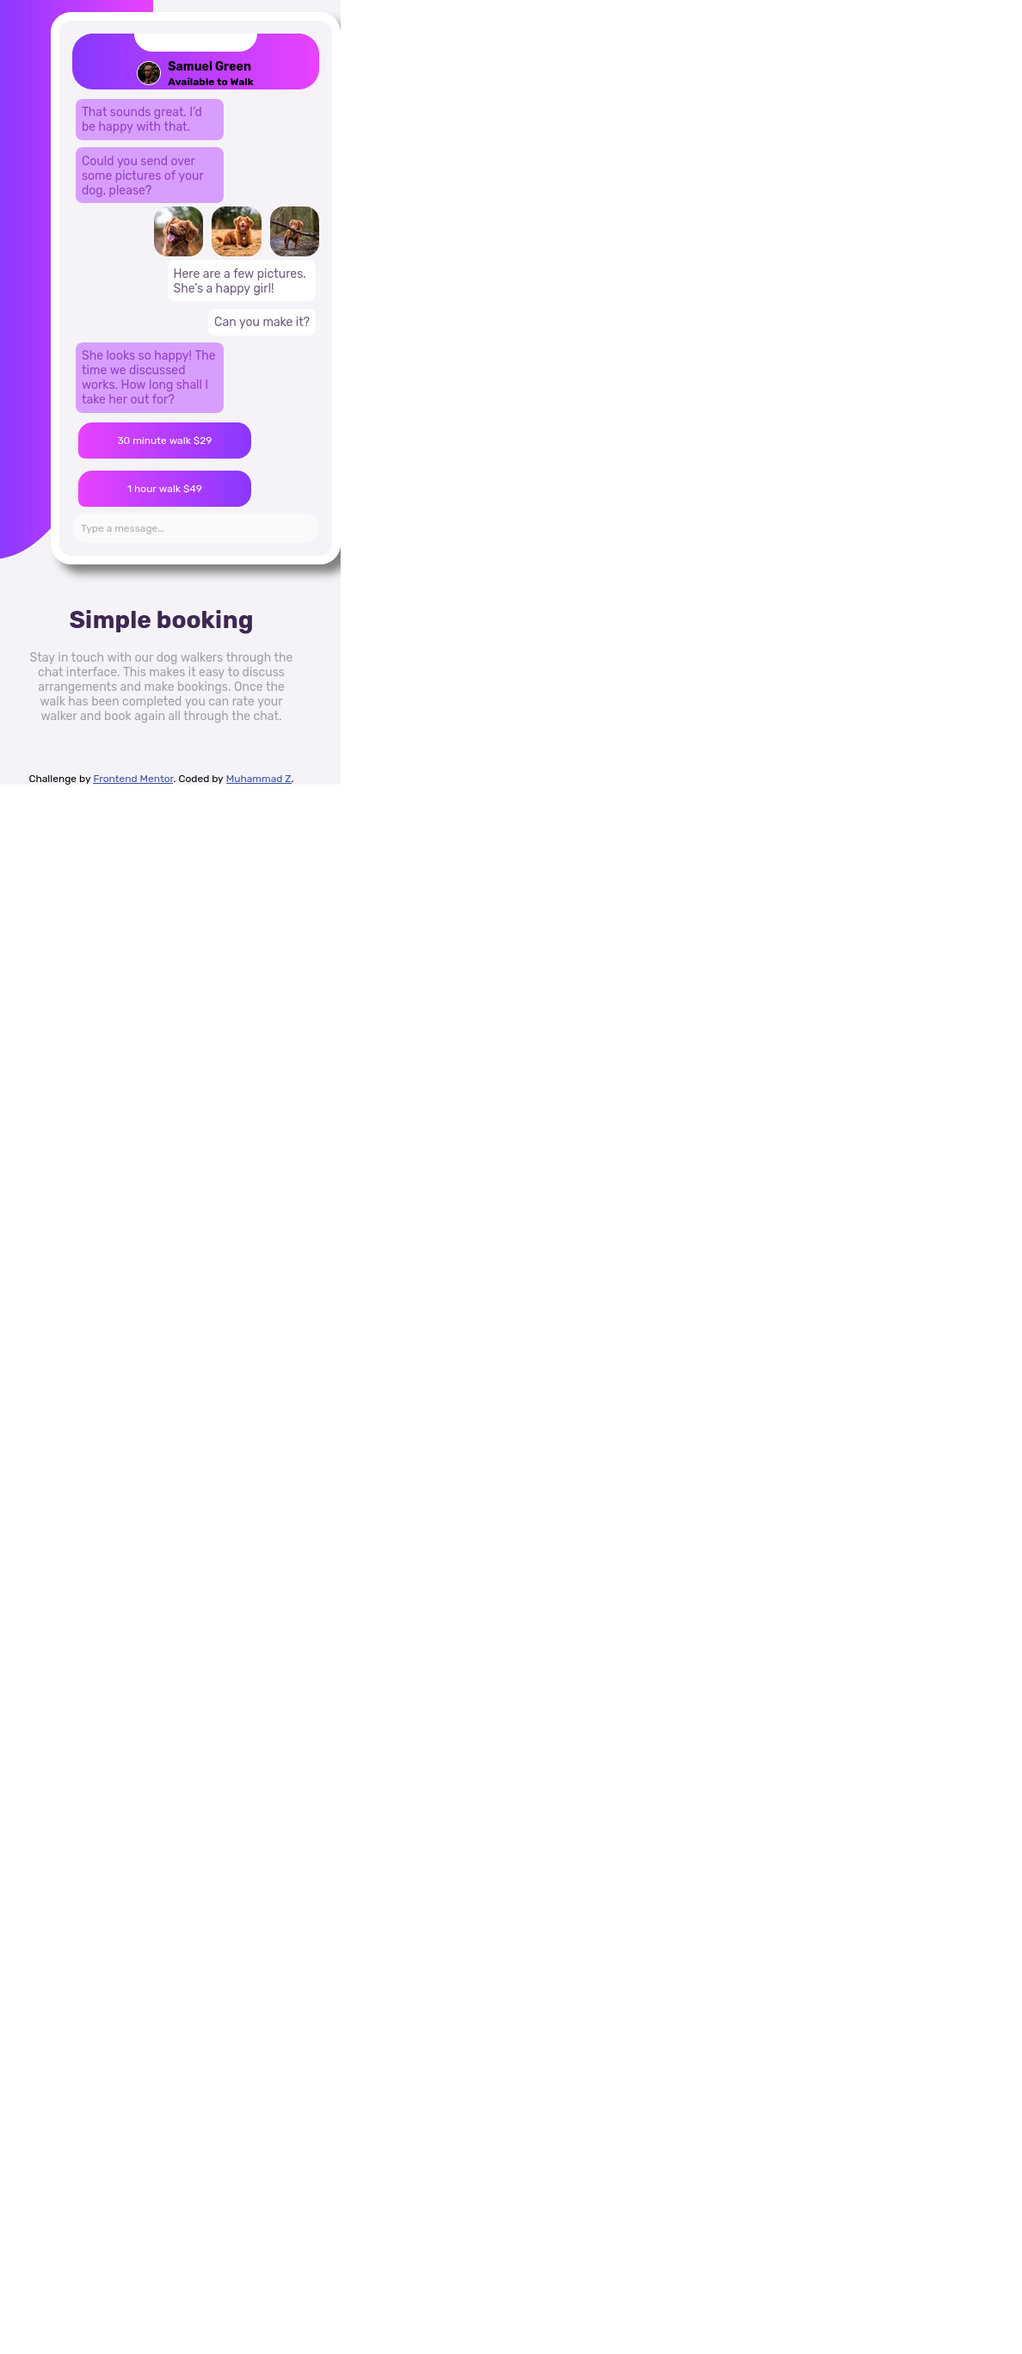
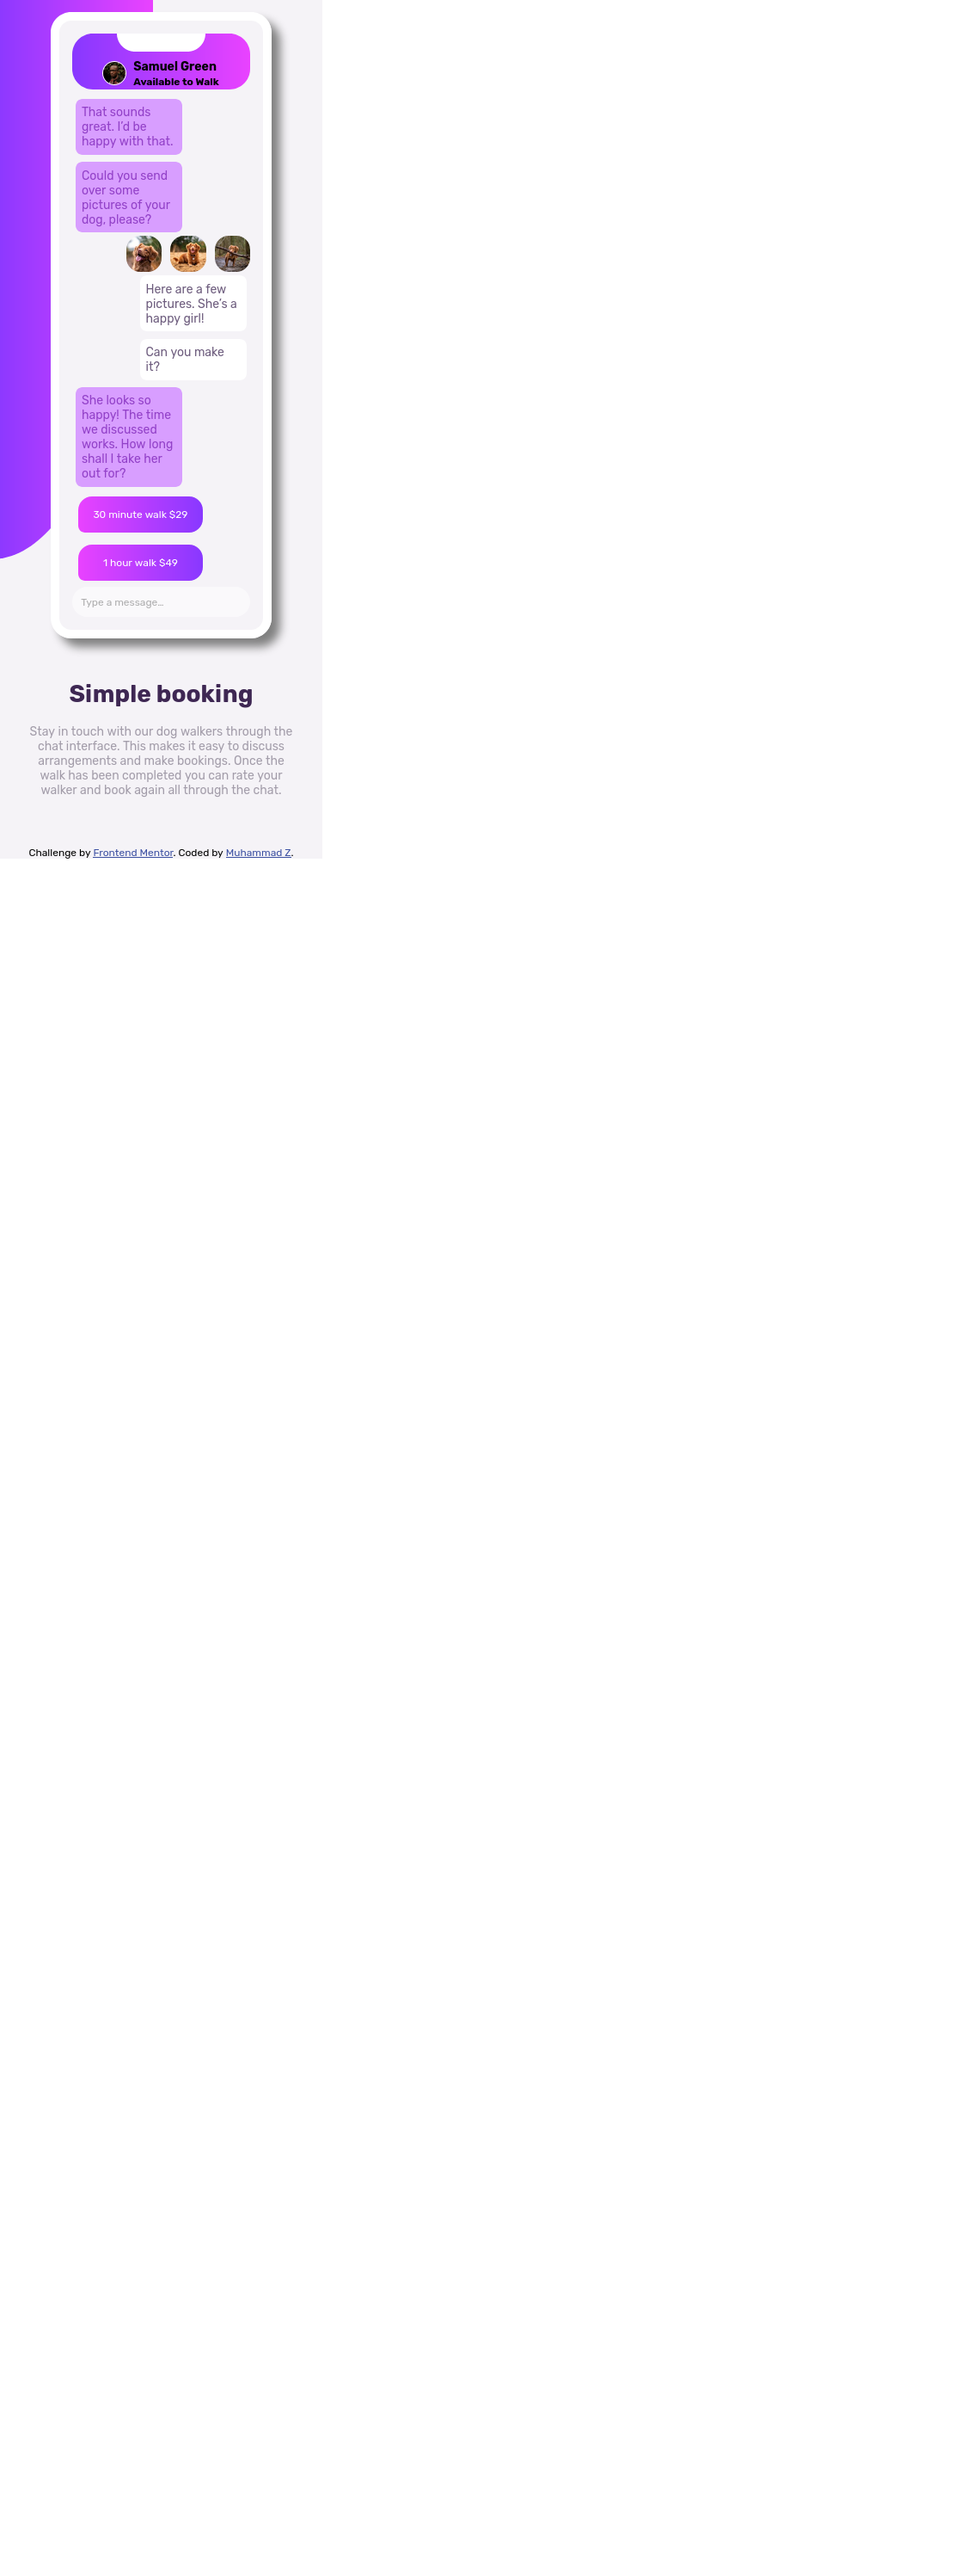
fix figure width on mobile

Changed region(s): [[0.0, 0.0, 0.3422, 0.3107]]

diff --git a/chat-app-css-illustration-main/styles/style.css b/chat-app-css-illustration-main/styles/style.css
@@ -64,6 +64,7 @@ body::after {
 }
 
 figure {
+    width: fit-content !important;
     border: 10px solid white;
     border-radius: 24px;
     padding: 0.5rem;

diff --git a/chat-app-css-illustration-main/README.md b/chat-app-css-illustration-main/README.md
@@ -20,7 +20,7 @@ Users should be able to:
 ### Links
 
 - Solution URL: [Add solution URL here](https://your-solution-url.com)
-- Live Site URL: [Add live site URL here](https://your-live-site-url.com)
+- Live Site URL: [GitHub Pages](https://muhammad-z.github.io/frontend-mentor-challenges/chat-app-css-illustration-main/index.html)
 
 ## My process
 
